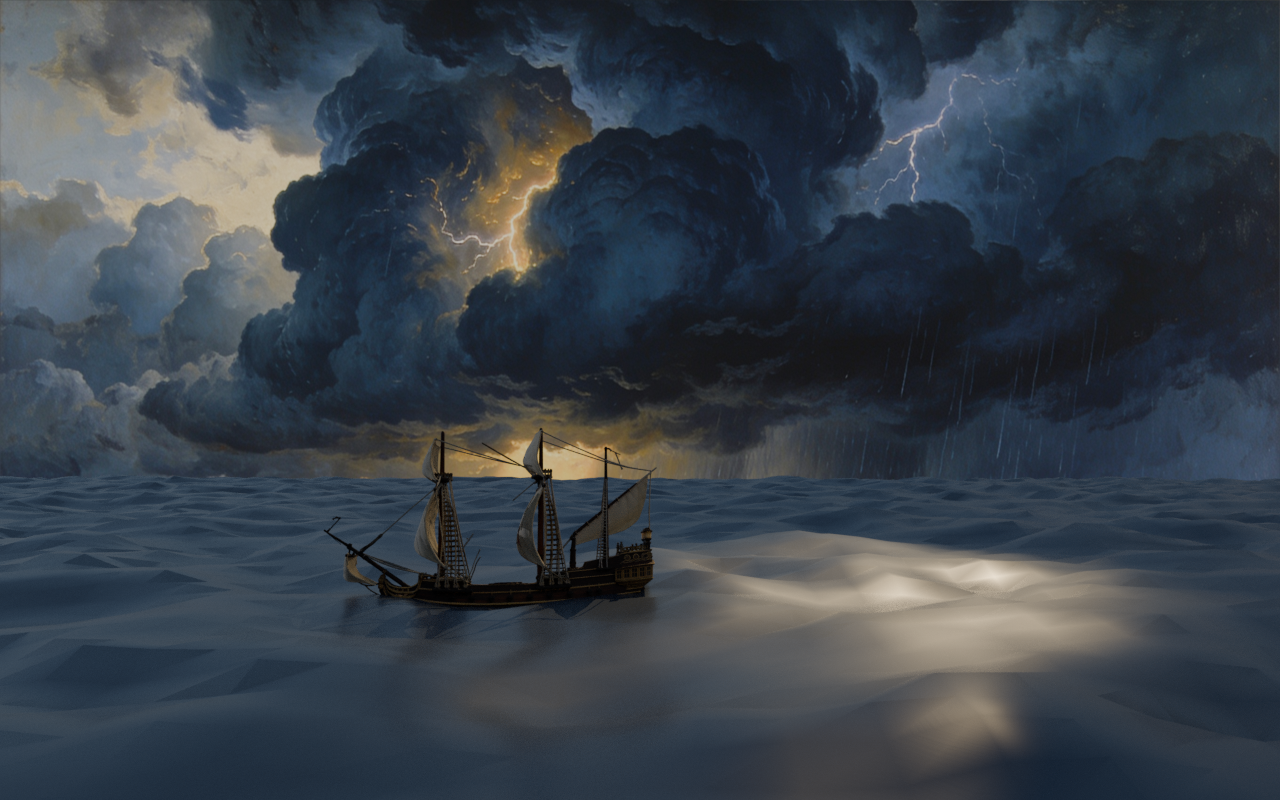
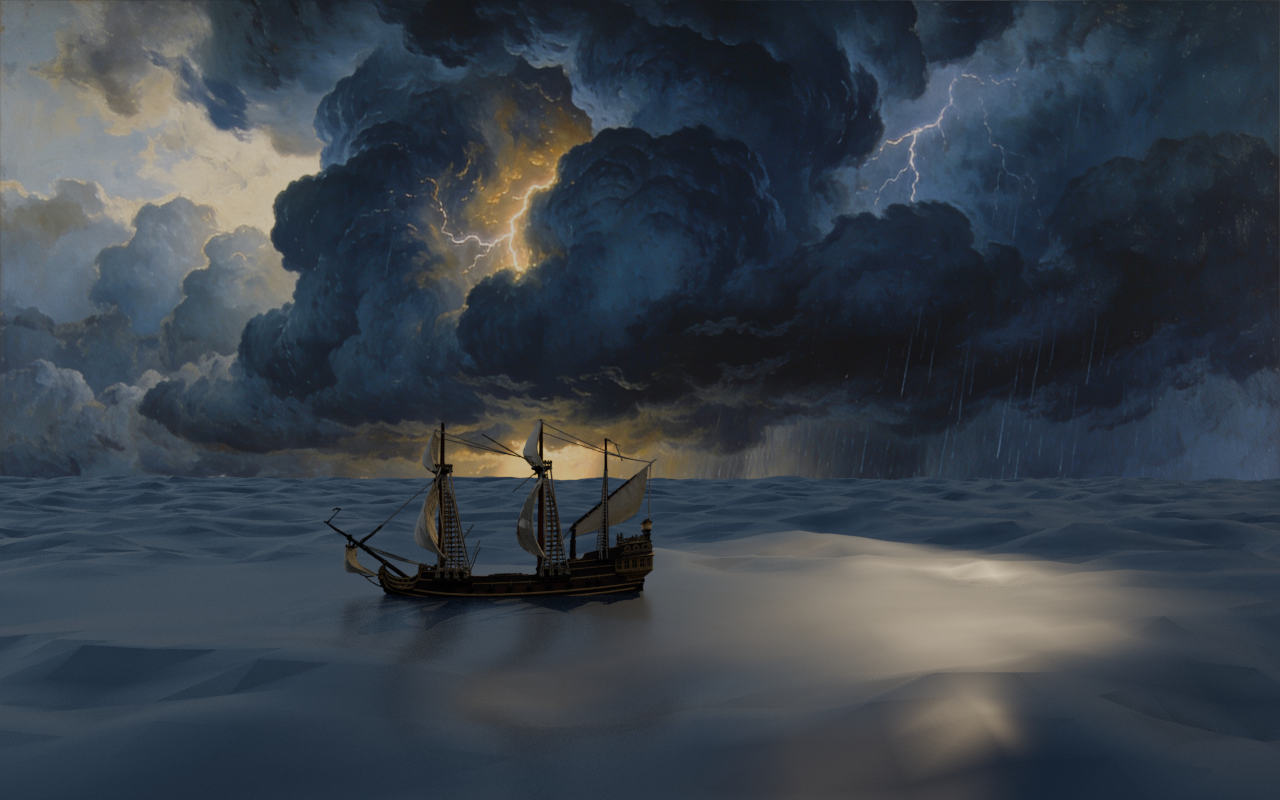
Flotación correcta en actos II/IV: huella aplanada + nivel local por casco
helper aplana(): calma el agua bajo cada nave (huella elíptica con
falloff) y devuelve el nivel local; cada barco se asienta sobre SU agua
con calado 0.7-1.0m. Se acabaron los semihundidos (regla apuntada en el
plan compartido).

Changed region(s): [[0.25, 0.5312, 0.5312, 0.7812], [0.5625, 0.7188, 0.8125, 0.7812], [0.0, 0.6875, 0.1562, 0.7812]]

diff --git a/3d/build_actos.py b/3d/build_actos.py
@@ -46,6 +46,28 @@ def mar(strength, color, rough):
     return o
 
 
+
+
+def aplana(mar_obj, cx, cy, rx=10.0, ry=4.5):
+    """Calma el agua bajo el casco (huella elíptica) y devuelve el nivel local:
+    el barco se asienta SOBRE su agua, no atravesado por las crestas."""
+    me = mar_obj.data
+    zs = []
+    for v in me.vertices:
+        dx = (v.co.x - cx) / rx
+        dy = (v.co.y - cy) / ry
+        if dx * dx + dy * dy < 4.0:
+            zs.append(v.co.z)
+    nivel = sum(zs) / max(1, len(zs))
+    for v in me.vertices:
+        dx = (v.co.x - cx) / rx
+        dy = (v.co.y - cy) / ry
+        d = (dx * dx + dy * dy) ** 0.5
+        if d < 2.2:
+            t = max(0.0, 1.0 - max(0.0, d - 1.0) / 1.2)
+            v.co.z = v.co.z * (1 - t) + nivel * t
+    return nivel
+
 def nao(nombre, pos, rotz, escora=0, escala=11):
     antes = set(bpy.context.scene.objects)
     bpy.ops.import_scene.gltf(filepath="/tmp/nao-ia.glb")
@@ -113,10 +135,12 @@ def render(nombre, cam_loc, cam_dir, lens=33, mist=(18, 90), mist_color=(0.93, 0
 
 # ================= ACTO II · LA FLOTA =================
 escena_limpia()
-mar(1.1, (0.06, 0.10, 0.22), 0.18)
-nao("NaoLider", (0, 10, 1.9), 196)
-nao("NaoAla1", (-19, 30, 1.7), 203, escora=2)
-nao("NaoAla2", (16, 36, 1.7), 190, escora=-2)
+m2 = mar(1.1, (0.06, 0.10, 0.22), 0.18)
+for nombre, (px, py), rz, esc in (("NaoLider", (0, 10), 196, 0),
+                                  ("NaoAla1", (-19, 30), 203, 2),
+                                  ("NaoAla2", (16, 36), 190, -2)):
+    nivel = aplana(m2, px, py)
+    nao(nombre, (px, py, nivel + 2.5), rz, escora=esc)
 mundo("matte_atardecer.jpg", 1.0, (1.0, 0.66, 0.34), 3.2,
       (math.radians(75), 0, math.radians(-150)))
 render("acto2_flota.png", (3, -24, 4.2), (-1, 30, 1.0), lens=31, mist=(25, 110))
@@ -124,8 +148,9 @@ print("ACTO2_OK")
 
 # ================= ACTO IV · LA TORMENTA =================
 escena_limpia()
-mar(2.6, (0.025, 0.04, 0.07), 0.32)
-nao("NaoTormenta", (-2, 14, 2.1), 188, escora=6)
+m4 = mar(2.6, (0.025, 0.04, 0.07), 0.32)
+nivel4 = aplana(m4, -2, 14, rx=12.0, ry=5.5)
+nao("NaoTormenta", (-2, 14, nivel4 + 2.35), 188, escora=6)
 mundo("matte_tormenta.jpg", 0.22, (0.6, 0.68, 0.9), 1.1,
       (math.radians(70), 0, math.radians(-120)))
 # el haz dorado del matte toca el agua tras la nao
